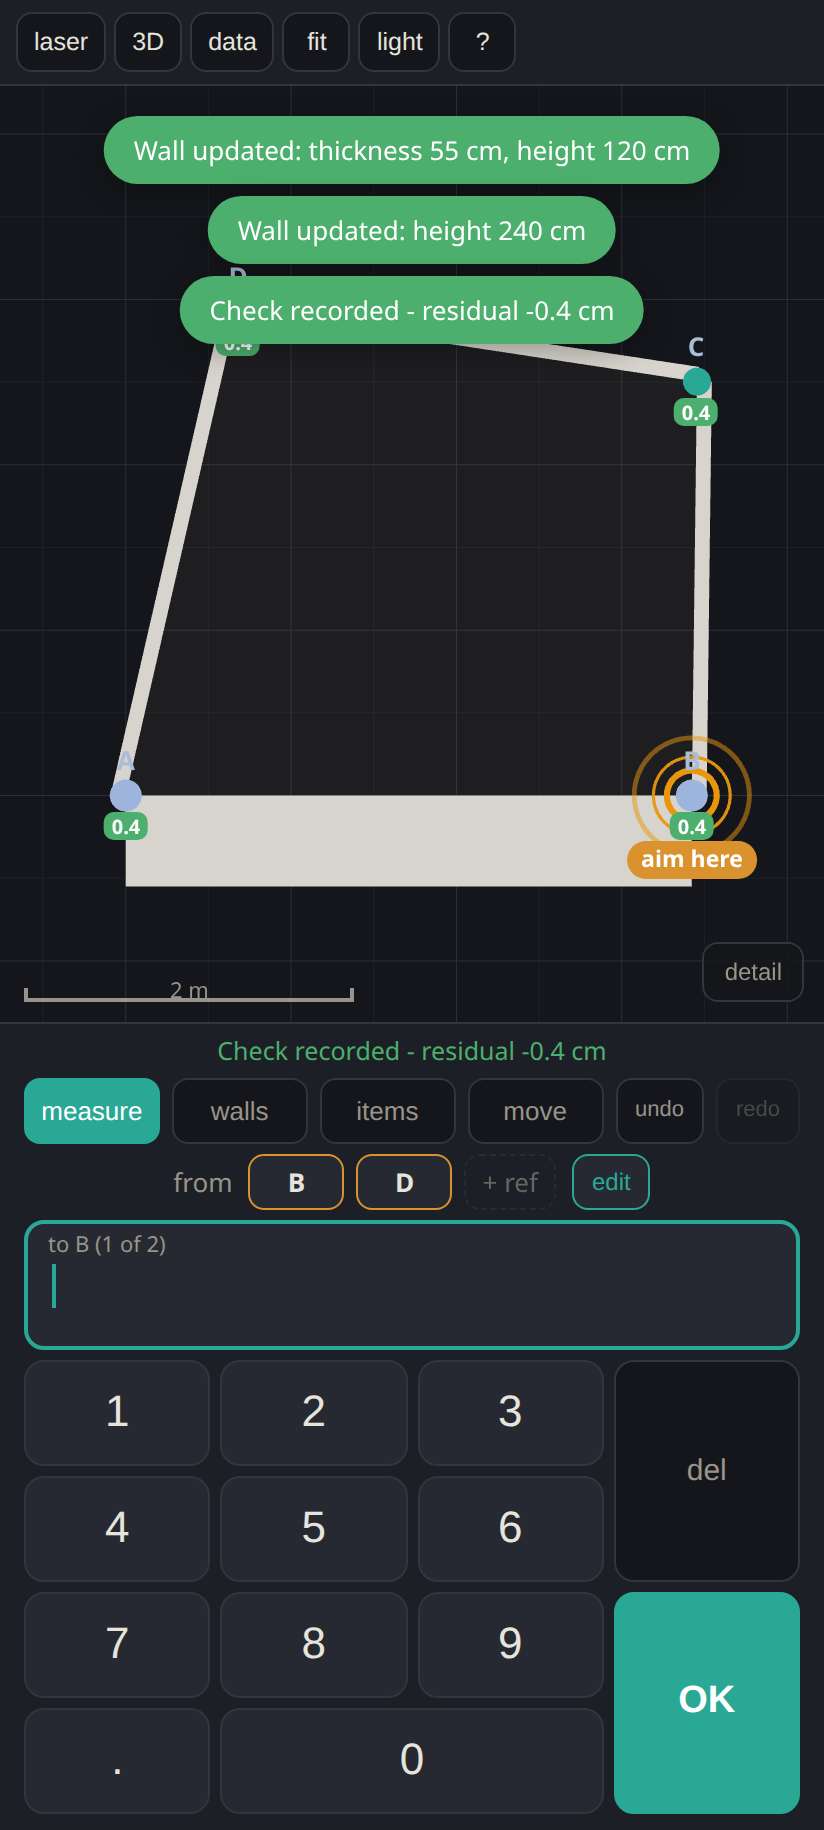
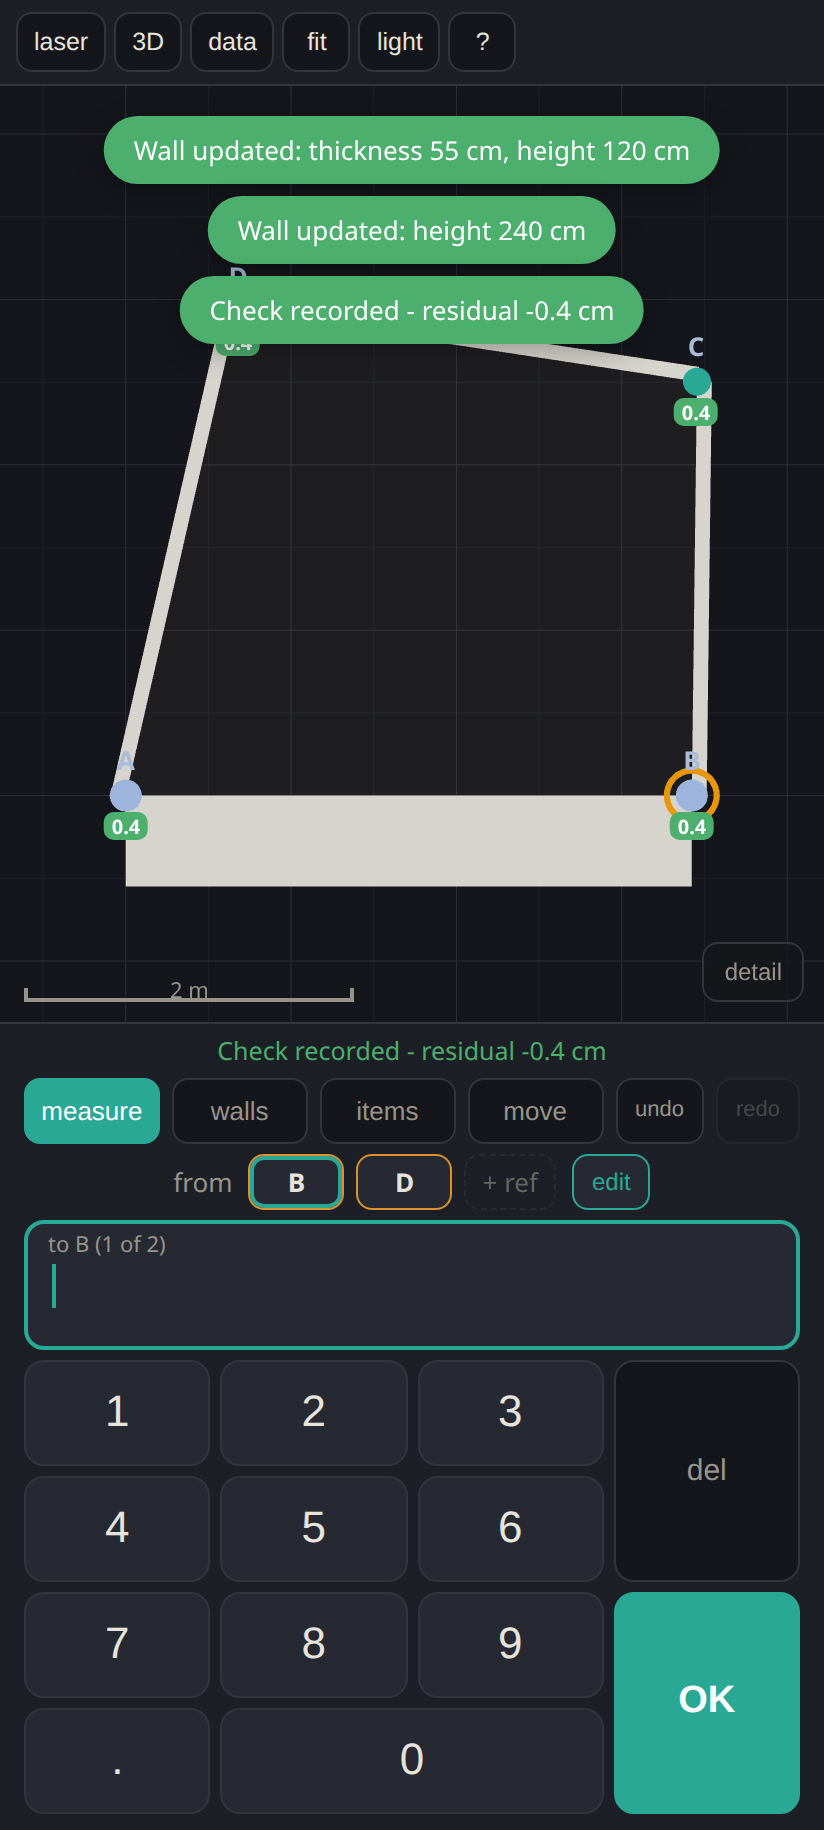
measuring: name the mark, do not point at it
The aim ring and 'aim here' callout are gone. Two problems with them:
they covered the geometry they were meant to help read, and they
asserted a direction the data does not have - a distance is symmetric,
and measuring from a reference to the new mark is just as valid as the
other way round.

The cue moves to where the eye already is: the reference slot for the
distance being entered is outlined, and the input's own label reads
'to A - left window reveal (1 of 2)', note included. Status wording is
direction-neutral ('Distance 1 of 2: A - left window reveal'). Notes
stay; only the plan overlay and the implied direction go. Off-screen
marks still reframe the view, which never obscured anything.

Changed region(s): [[0.7585, 0.4049, 0.9102, 0.4984], [0.3944, 0.623, 0.4248, 0.6541], [0.3034, 0.623, 0.3337, 0.6541]]

diff --git a/js/main.js b/js/main.js
@@ -433,8 +433,9 @@ function okIsShoot() {
   return ui.mode === 'measure' || anchorMode();
 }
 
-// The point the next reading should be aimed at, so the app can say and
-// show WHICH mark to shoot rather than leaving it to memory.
+// Which mark the next distance is for. A distance is symmetric - you
+// may stand at either end - so this only ever NAMES the mark, never
+// tells you which way to point.
 function aimTarget() {
   if (!ui.refs.length || ui.mode !== 'measure' || ui.flow || anchorMode()) return null;
   const id = multiMode() ? ui.refs[ui.multiD.length] : ui.refs[ui.active];
@@ -1611,7 +1612,10 @@ function fieldLabel(i) {
   if (ui.flow?.kind === 'room-height') return i === 0 ? 'ceiling height' : '';
   if (multiMode()) {
     const k = ui.multiD.length;
-    return i === 0 ? `to ${store.point(ui.refs[k])?.name ?? '?'} (${k + 1} of ${ui.refs.length})` : '';
+    const pt = store.point(ui.refs[k]);
+    return i === 0
+      ? `to ${pt?.name ?? '?'}${pt?.note ? ` - ${pt.note}` : ''} (${k + 1} of ${ui.refs.length})`
+      : '';
   }
   if (ui.flow?.kind === 'wall-edit') {
     const w = store.wall(ui.flow.wallId);
@@ -1626,7 +1630,9 @@ function fieldLabel(i) {
     return `height (${Math.round(h1 * 100)}${h1 !== h2 ? '/' + Math.round(h2 * 100) : ''})`;
   }
   const id = ui.refs[i];
-  return `${id ? `to ${store.point(id).name}` : `to ref ${i + 1}`} (${i + 1} of 2)`;
+  if (!id) return `to ref ${i + 1} (${i + 1} of 2)`;
+  const pt = store.point(id);
+  return `to ${pt.name}${pt.note ? ` - ${pt.note}` : ''} (${i + 1} of 2)`;
 }
 
 function renderPanel() {
@@ -1676,8 +1682,10 @@ function renderPanel() {
     for (let i = 0; i < shown; i++) {
       const id = ui.refs[i];
       const el = document.createElement('span');
-      el.className = 'refslot' + (id ? ' set' : '') + (i >= 2 && !id ? ' extra' : '');
+      const isNow = id != null && id === aimTarget();
+      el.className = 'refslot' + (id ? ' set' : '') + (i >= 2 && !id ? ' extra' : '') + (isNow ? ' now' : '');
       el.textContent = id ? store.point(id).name : i < 2 ? `tap ref ${i + 1}` : '+ ref';
+      if (isNow) el.title = store.point(id).note || 'the distance being entered now';
       if (id) el.addEventListener('click', () => toggleRef(id));
       slots.appendChild(el);
     }
@@ -1788,7 +1796,7 @@ function renderPanel() {
       const k = ui.multiD.length;
       const t = store.point(ui.refs[k]);
       msg = {
-        text: `Multi-fix: distance ${k + 1} of ${ui.refs.length}, aim at ${t?.name}${t?.note ? ` (${t.note})` : ''} - side picks itself from the extras`,
+        text: `Multi-fix: distance ${k + 1} of ${ui.refs.length}, ${t?.name}${t?.note ? ` - ${t.note}` : ''} - side picks itself from the extras`,
         cls: '',
       };
     }
@@ -1800,9 +1808,8 @@ function renderPanel() {
         msg = { text: 'OK places the marked candidate - or tap the other one', cls: '' };
       } else {
         const t = store.point(ui.refs[ui.active]);
-        const verb = laser.canTrigger ? 'Shoot' : 'Measure';
         msg = t
-          ? { text: `${verb} ${t.name}${t.note ? ` (${t.note})` : ''} - distance ${ui.active + 1} of 2`, cls: '' }
+          ? { text: `Distance ${ui.active + 1} of 2: ${t.name}${t.note ? ` - ${t.note}` : ''}`, cls: '' }
           : { text: `Type distances to ${store.point(ui.refs[0]).name} and ${store.point(ui.refs[1]).name}`, cls: '' };
       }
     }
@@ -1836,7 +1843,7 @@ function renderPanel() {
 }
 
 function renderPlan() {
-  const content = { points: [], segments: [], circles: [], ghosts: [], rects: [], polygons: [], handles: [], aims: [], labels: [] };
+  const content = { points: [], segments: [], circles: [], ghosts: [], rects: [], polygons: [], handles: [], labels: [] };
   const pts = store.state.points;
 
   if (anchorMode()) {
@@ -2030,25 +2037,15 @@ function renderPlan() {
     content.labels.push({ key: `ue${u.pt.id}`, x: u.p.x, y: u.p.y, text: `unsolved: ${u.reason}`, cls: 'res err', dy: 15 });
   }
 
-  // Aim marker: an unmistakable ring on the point the next shot is for,
-  // with its note when it has one - marks in the room are often
-  // unlabelled, and by point S nobody remembers which is which.
+  // The current mark is called out in the reference slots and the field
+  // label, not on the plan - a marker there just covers the geometry.
+  // Reframing is still worth it when the mark is off screen.
   const aimId = aimTarget();
-  if (aimId != null) {
+  if (aimId != null && renderPlan.lastAim !== aimId) {
+    renderPlan.lastAim = aimId;
     const ap = pos(aimId);
-    const apt = store.point(aimId);
-    content.aims.push({ x: ap.x, y: ap.y });
-    content.labels.push({
-      key: 'aim', x: ap.x, y: ap.y, dy: 32,
-      text: apt.note ? `aim here: ${apt.note}` : 'aim here', cls: 'aim',
-    });
-    // Keep the target on screen without fighting the user's panning:
-    // only reframe when the target itself changes.
-    if (renderPlan.lastAim !== aimId) {
-      renderPlan.lastAim = aimId;
-      if (!plan.isOnScreen(ap.x, ap.y)) plan.fitAll([...store.solved.pos.values()]);
-    }
-  } else {
+    if (ap && !plan.isOnScreen(ap.x, ap.y)) plan.fitAll([...store.solved.pos.values()]);
+  } else if (aimId == null) {
     renderPlan.lastAim = null;
   }
 
@@ -2283,16 +2280,6 @@ function surveyViz() {
     viz.points.push({ id: u.pt.id, x: u.p.x, y: u.p.y, e: activeE, style: 'anchor', ref: null, isLast: false });
     viz.labels.push({ key: `up${u.pt.id}`, x: u.p.x, y: u.p.y, z: activeE + 0.55, text: `${u.pt.name}?`, cls: 'name' });
     viz.labels.push({ key: `ue${u.pt.id}`, x: u.p.x, y: u.p.y, z: activeE + 0.32, text: `unsolved: ${u.reason}`, cls: 'res err' });
-  }
-  const aimId3 = aimTarget();
-  if (aimId3 != null) {
-    const ap = pos(aimId3);
-    const apt = store.point(aimId3);
-    const ae = elev(apt.floor);
-    viz.labels.push({
-      key: 'aim', x: ap.x, y: ap.y, z: ae + 0.95,
-      text: apt.note ? `aim here: ${apt.note}` : 'aim here', cls: 'aim',
-    });
   }
   const pv = preview();
   if (pv) {

diff --git a/index.html b/index.html
@@ -207,7 +207,7 @@
     <h2>bluetooth laser</h2>
     <p>With a Bosch meter connected the <b>OK</b> key becomes <b>shoot</b> whenever the field is empty: aim, press it, the reading lands, press again (now OK) to commit. One thumb position for the whole cycle - no hunting for a separate button while holding aim. Type a digit and it reverts to OK.</p>
     <p>Whenever a reading is expected the app also keeps the meter's laser dot lit (re-arming it every few seconds), so you can aim before shooting instead of waking the meter with its own button and losing the aim. Because the meter is already armed, the shot fires immediately. The dot parks itself after a few idle minutes, and the keep-alive can be turned off in the laser panel.</p>
-    <p>While you are entering distances the app marks the target: a ring on the plan and 3D labelled <b>aim here</b>, and the status line names the mark. Give points a note in the data sheet (<b>points</b> section - "left window reveal", "radiator corner") and it shows up in both, so an unmarked point is still identifiable days later. Point names never run out: after Z they continue AA, AB ... ZZ, AAA.</p>
+    <p>While you are entering distances the app names the mark it is waiting for: its reference slot is outlined and the input's own label reads <b>to A - left window reveal (1 of 2)</b>. Notes come from the data sheet (<b>points</b> section) and make an untaped point identifiable days later. Nothing is drawn over the plan for this, and no direction is implied - a distance is the same measured from either end. Point names never run out: after Z they continue AA, AB ... ZZ, AAA.</p>
     <p>Tap <b>laser</b> in the header to open the laser panel, then <b>connect</b> (Chrome, and the app must be on its https:// address or localhost). Each reading lands in the active field ready for OK. The panel also holds the remote-shoot offset and a log of recent protocol frames (copyable) so unknown meters can be given a decoder.</p>
     <p><b>Meter modes</b>: the meter's continuous mode streams into the app - the active field holds a rolling average (hand shake cancels out; re-aiming or pausing starts a fresh window), and the status line shows the sample count plus the meter's own min/max. Nothing commits until you press OK. Area and volume results are announced in the status line but never treated as distances.</p>
     <p><b>Auto mode</b> (in the laser panel, off by default): each laser reading advances the survey by itself. The number of selected references is the contract: with 2 selected, every pair of readings places a point; with 3 or 4 selected, every point takes that many readings and commits on the last one - then the next point begins automatically against the same references. The status line always names which reference to shoot next, and the phone buzzes: short tick = reading logged, triple = point placed, long = reading refused. A mis-fired shot is retracted with <b>del</b> (steps back one reading); Escape restarts the current fix. Every guard still applies: impossible pairs are refused with an explanation, flip swaps a wrong side, and undo unwinds anything.</p>

diff --git a/js/plan.js b/js/plan.js
@@ -8,7 +8,6 @@
 //   rects:    [{x, y, rot, w, d, color, opacity, halo}],   // items
 //   polygons: [{pts: [{x,y}...], color, opacity}],          // room fill
 //   handles:  [{x, y}],                                     // rotate handle
-//   aims:     [{x, y}],                                     // shoot-at-me ring
 //   labels:   [{key, x, y, text, cls, dx, dy}],
 // }
 
@@ -263,17 +262,6 @@ export class PlanView {
         const ring = new THREE.Mesh(this.geoThinRing, this.mat('mesh', COLORS.lastRing));
         ring.position.set(p.x, p.y, 1.1);
         ring.scale.set(r + 5 * s, r + 5 * s, 1);
-        this.group.add(ring);
-      }
-    }
-
-    // Aim marker: two concentric rings, deliberately larger than any
-    // other point decoration so the target reads at a glance.
-    for (const a of c.aims || []) {
-      for (const [r, op] of [[20, 0.95], [30, 0.5]]) {
-        const ring = new THREE.Mesh(this.geoThinRing, this.mat('mesh', COLORS.refRing, op));
-        ring.position.set(a.x, a.y, 1.15);
-        ring.scale.set(r * s, r * s, 1);
         this.group.add(ring);
       }
     }

diff --git a/style.css b/style.css
@@ -157,14 +157,6 @@ header button:disabled { opacity: 0.35; }
   font-variant-numeric: tabular-nums;
 }
 .lbl.ghost { font-size: 12px; font-weight: 600; color: var(--teal); }
-.lbl.aim {
-  font-size: 11.5px;
-  font-weight: 700;
-  color: #fff;
-  background: var(--amber);
-  padding: 2px 7px;
-  border-radius: 99px;
-}
 .lbl.ghost.dim { opacity: 0.55; font-weight: 400; }
 .lbl.ang {
   font-size: 11px;
@@ -282,6 +274,8 @@ header button:disabled { opacity: 0.35; }
   text-align: center;
 }
 .refslot.extra { min-width: 44px; opacity: 0.6; padding: 4px 8px; }
+/* The slot whose distance is being entered right now. */
+.refslot.now { border-color: var(--teal); box-shadow: 0 0 0 2px var(--teal) inset; }
 .refslot.set {
   border: 1px solid var(--amber);
   background: var(--card);
